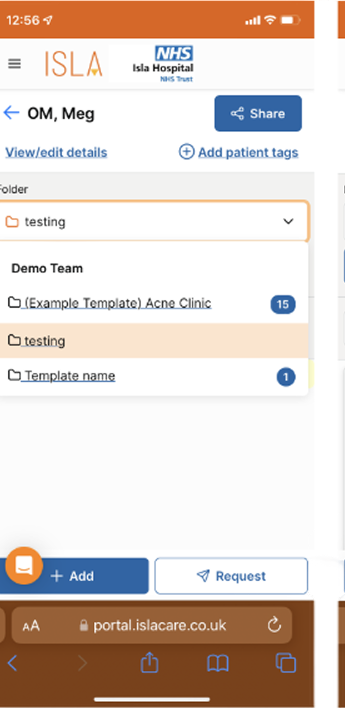
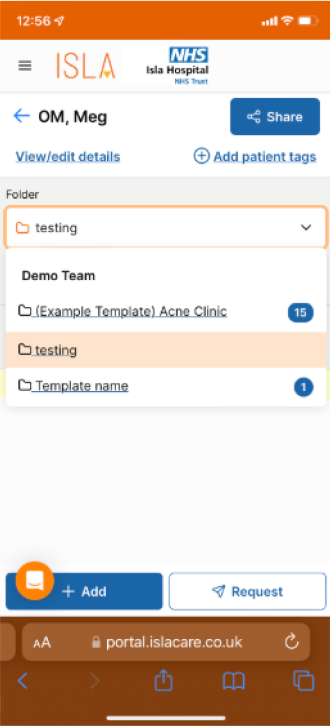
Replace before flow with the original QS flow screens
Swaps the before flow on quick_submit for the uploaded original-flow
screenshots, mapped to the correct step labels (Choose patient, Choose
folder, Add button, Consent, Add items, Capture photo, Upload,
Uploaded). Rounds their corners and adds a hairline border since these
are full screenshots rather than transparent mockups. Removes the raw
uploads.

diff --git a/app/quick_submit/page.tsx b/app/quick_submit/page.tsx
@@ -4,14 +4,14 @@ import StatBlock from "@/components/StatBlock";
 import NextProject from "@/components/NextProject";
 
 const beforeScreens = [
-  { label: "Choose patient", w: 346, h: 708 },
-  { label: "Choose folder", w: 347, h: 709 },
-  { label: "Add button", w: 348, h: 710 },
-  { label: "Consent", w: 347, h: 710 },
-  { label: "Add items", w: 348, h: 710 },
-  { label: "Capture photo", w: 348, h: 709 },
-  { label: "Upload", w: 318, h: 709 },
-  { label: "Uploaded", w: 327, h: 709 },
+  { label: "Choose patient", w: 330, h: 726 },
+  { label: "Choose folder", w: 330, h: 726 },
+  { label: "Add button", w: 330, h: 726 },
+  { label: "Consent", w: 330, h: 726 },
+  { label: "Add items", w: 330, h: 726 },
+  { label: "Capture photo", w: 327, h: 710 },
+  { label: "Upload", w: 327, h: 710 },
+  { label: "Uploaded", w: 327, h: 710 },
 ];
 
 const afterScreens = [
@@ -121,7 +121,7 @@ export default function QuickSubmitPage() {
                     width={screen.w}
                     height={screen.h}
                     quality={90}
-                    className="w-full drop-shadow-[0_8px_24px_rgba(41,36,32,0.12)]"
+                    className="w-full rounded-xl border border-line shadow-[0_8px_24px_rgba(41,36,32,0.12)]"
                   />
                   <figcaption className="mt-3 text-xs text-ink-2">
                     <span className="font-medium text-ink">{i + 1}.</span> {screen.label}
